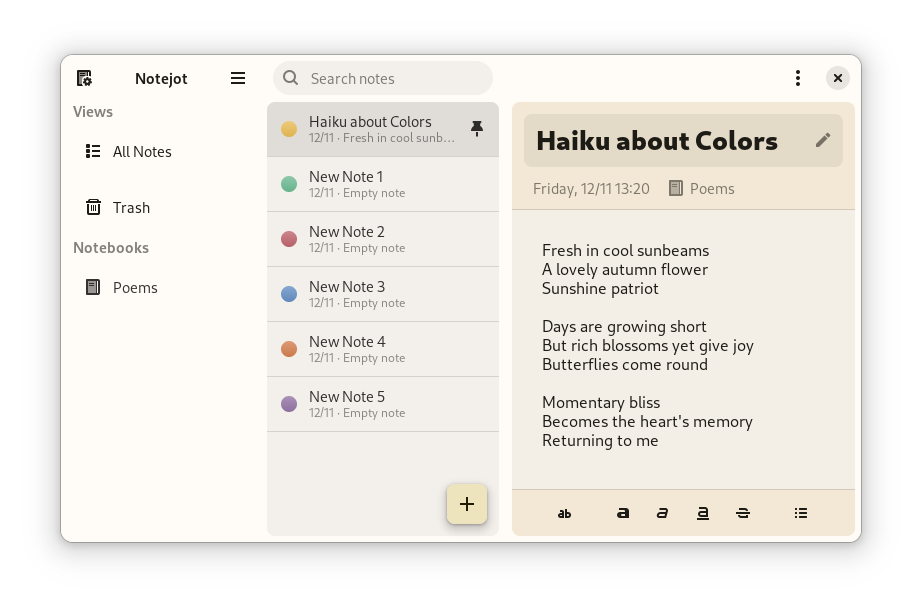
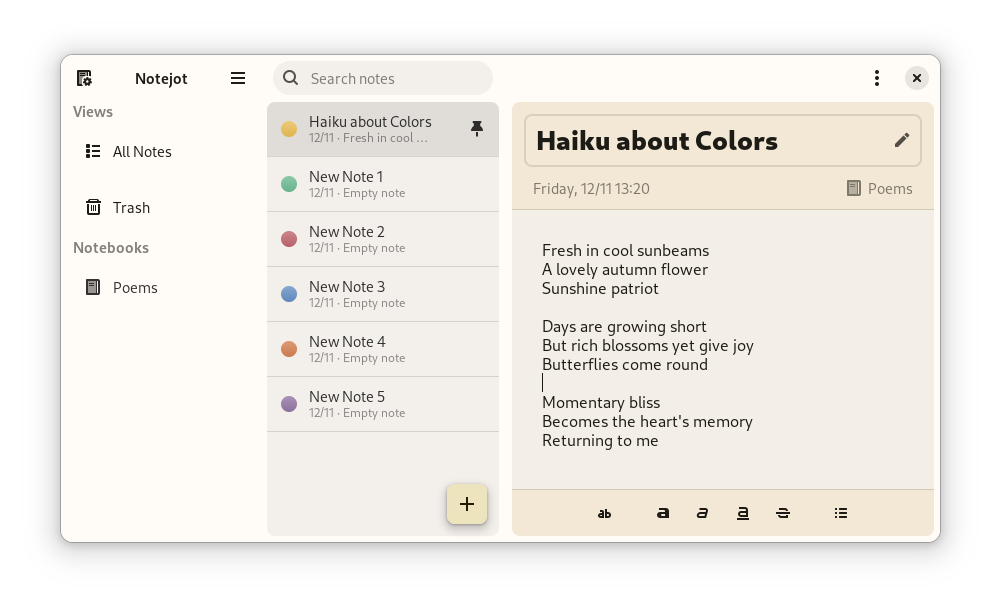
* - make note title entry outlined instead of shaded & make notebook indicator end-aligned

diff --git a/data/style.css b/data/style.css
@@ -146,10 +146,10 @@
 }
 
 .content-header entry {
-	background: alpha(@view_fg_color, 0.066);
-	padding: 10px 12px;
+	background: none;
+	border: 2px solid alpha(@view_fg_color, 0.122);
+	padding: 8px 10px;
 	border-radius: 8px;
-	border: none;
 }
 
 .content-footer {
